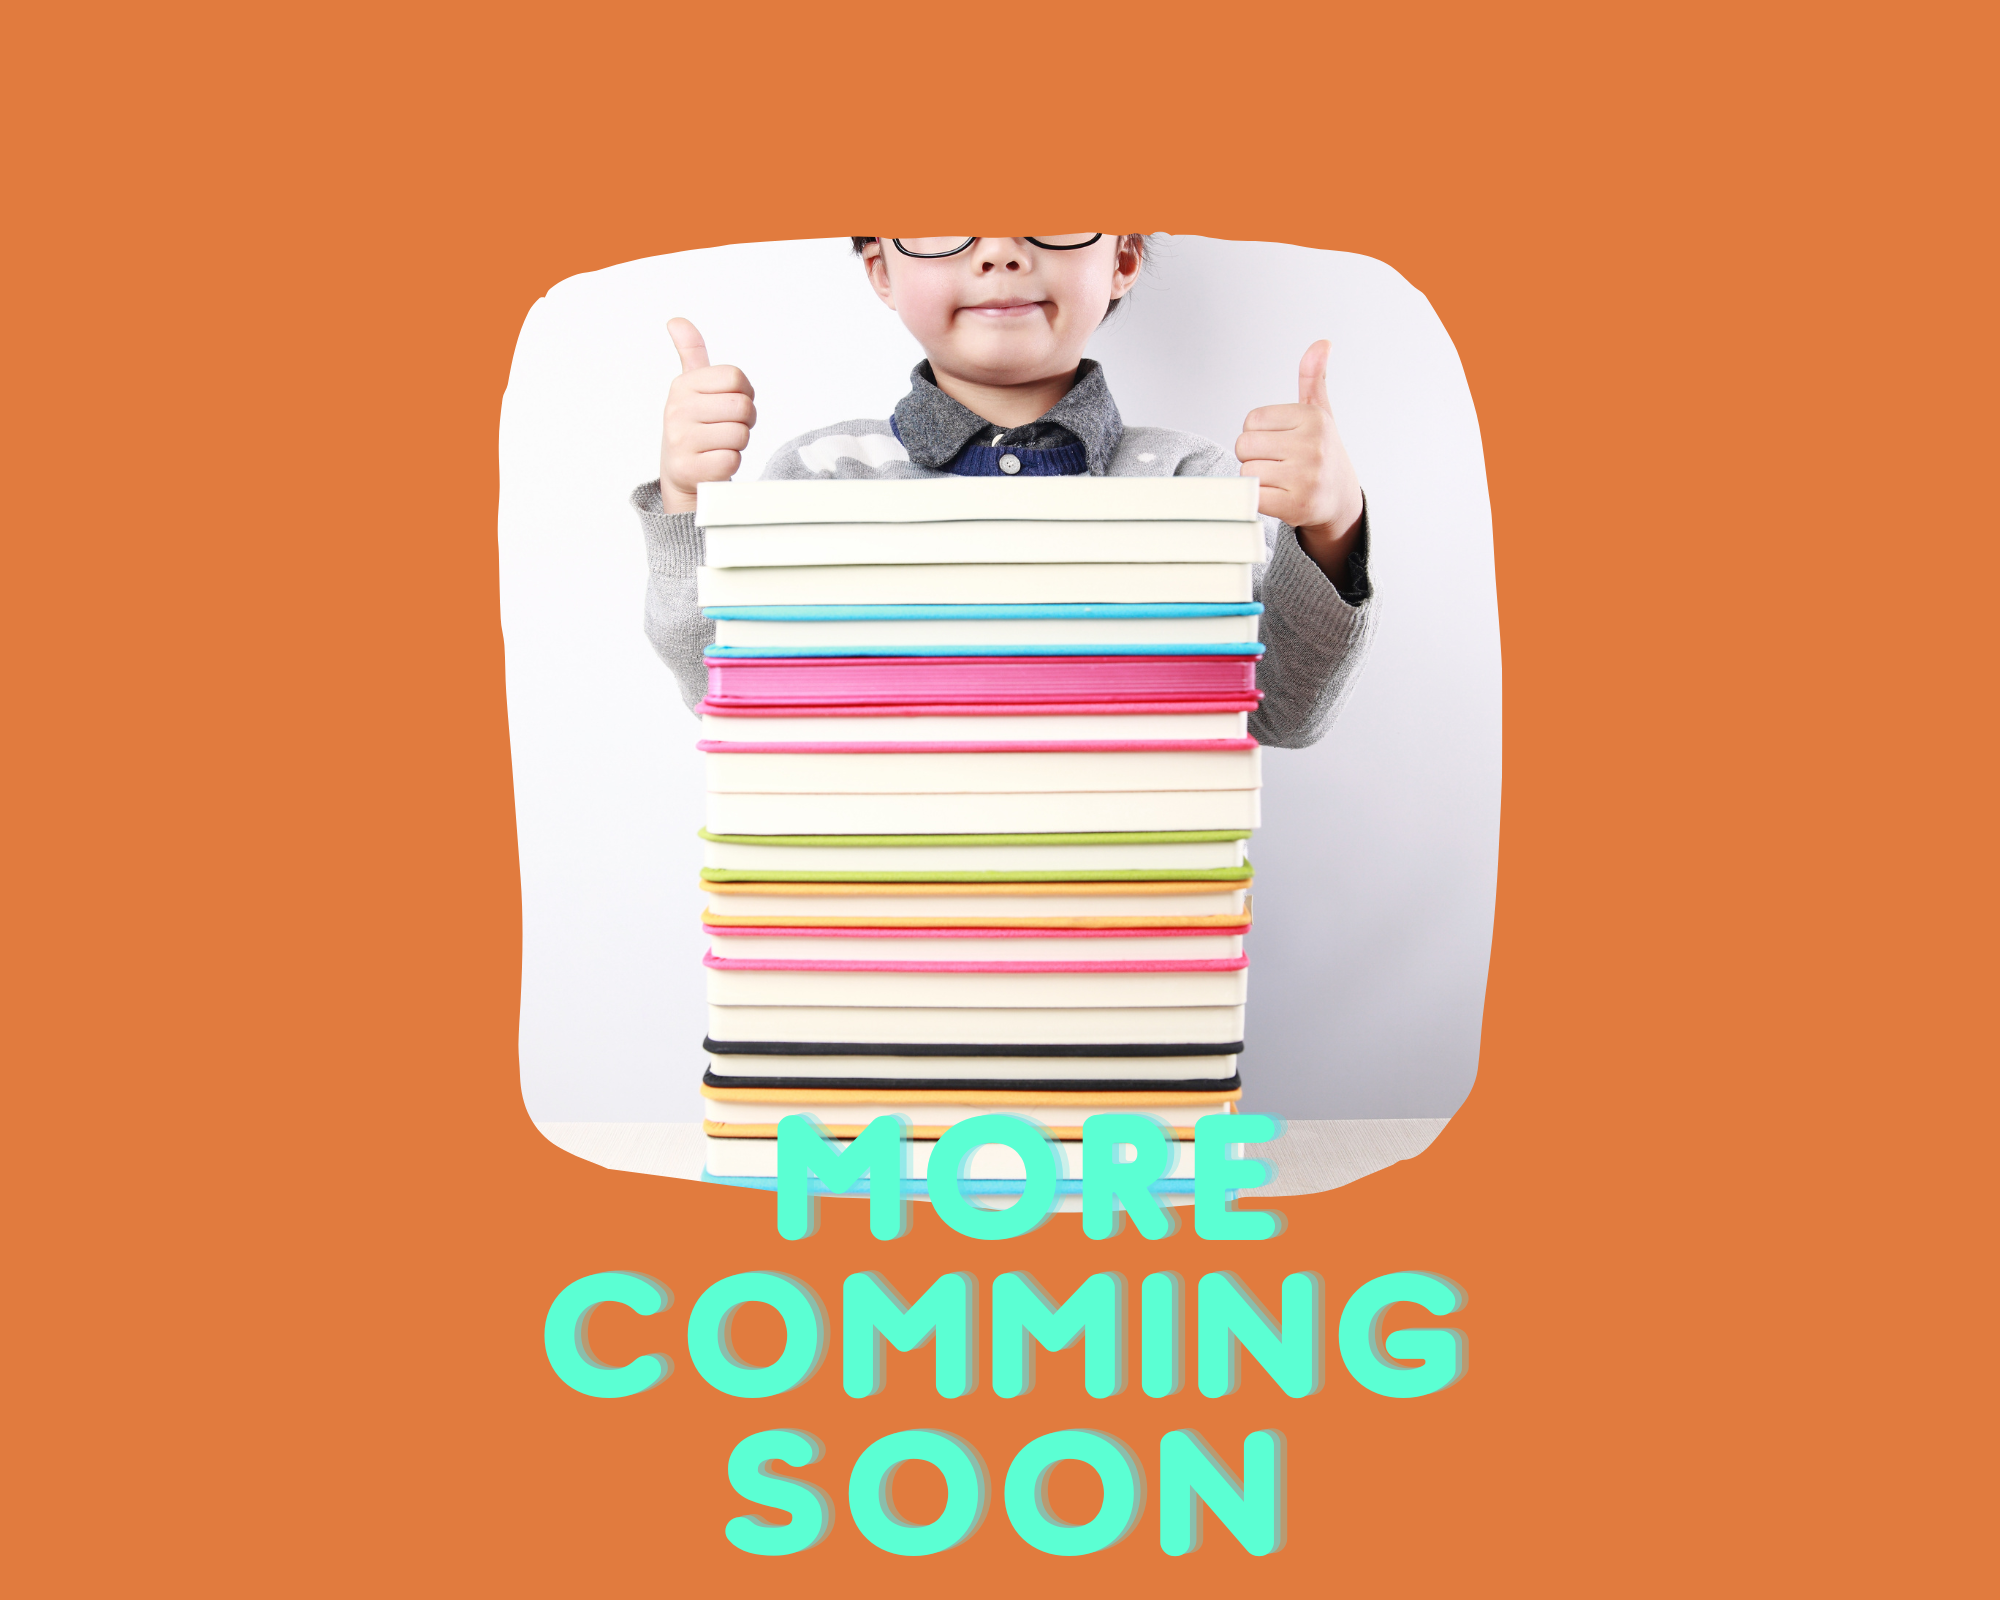
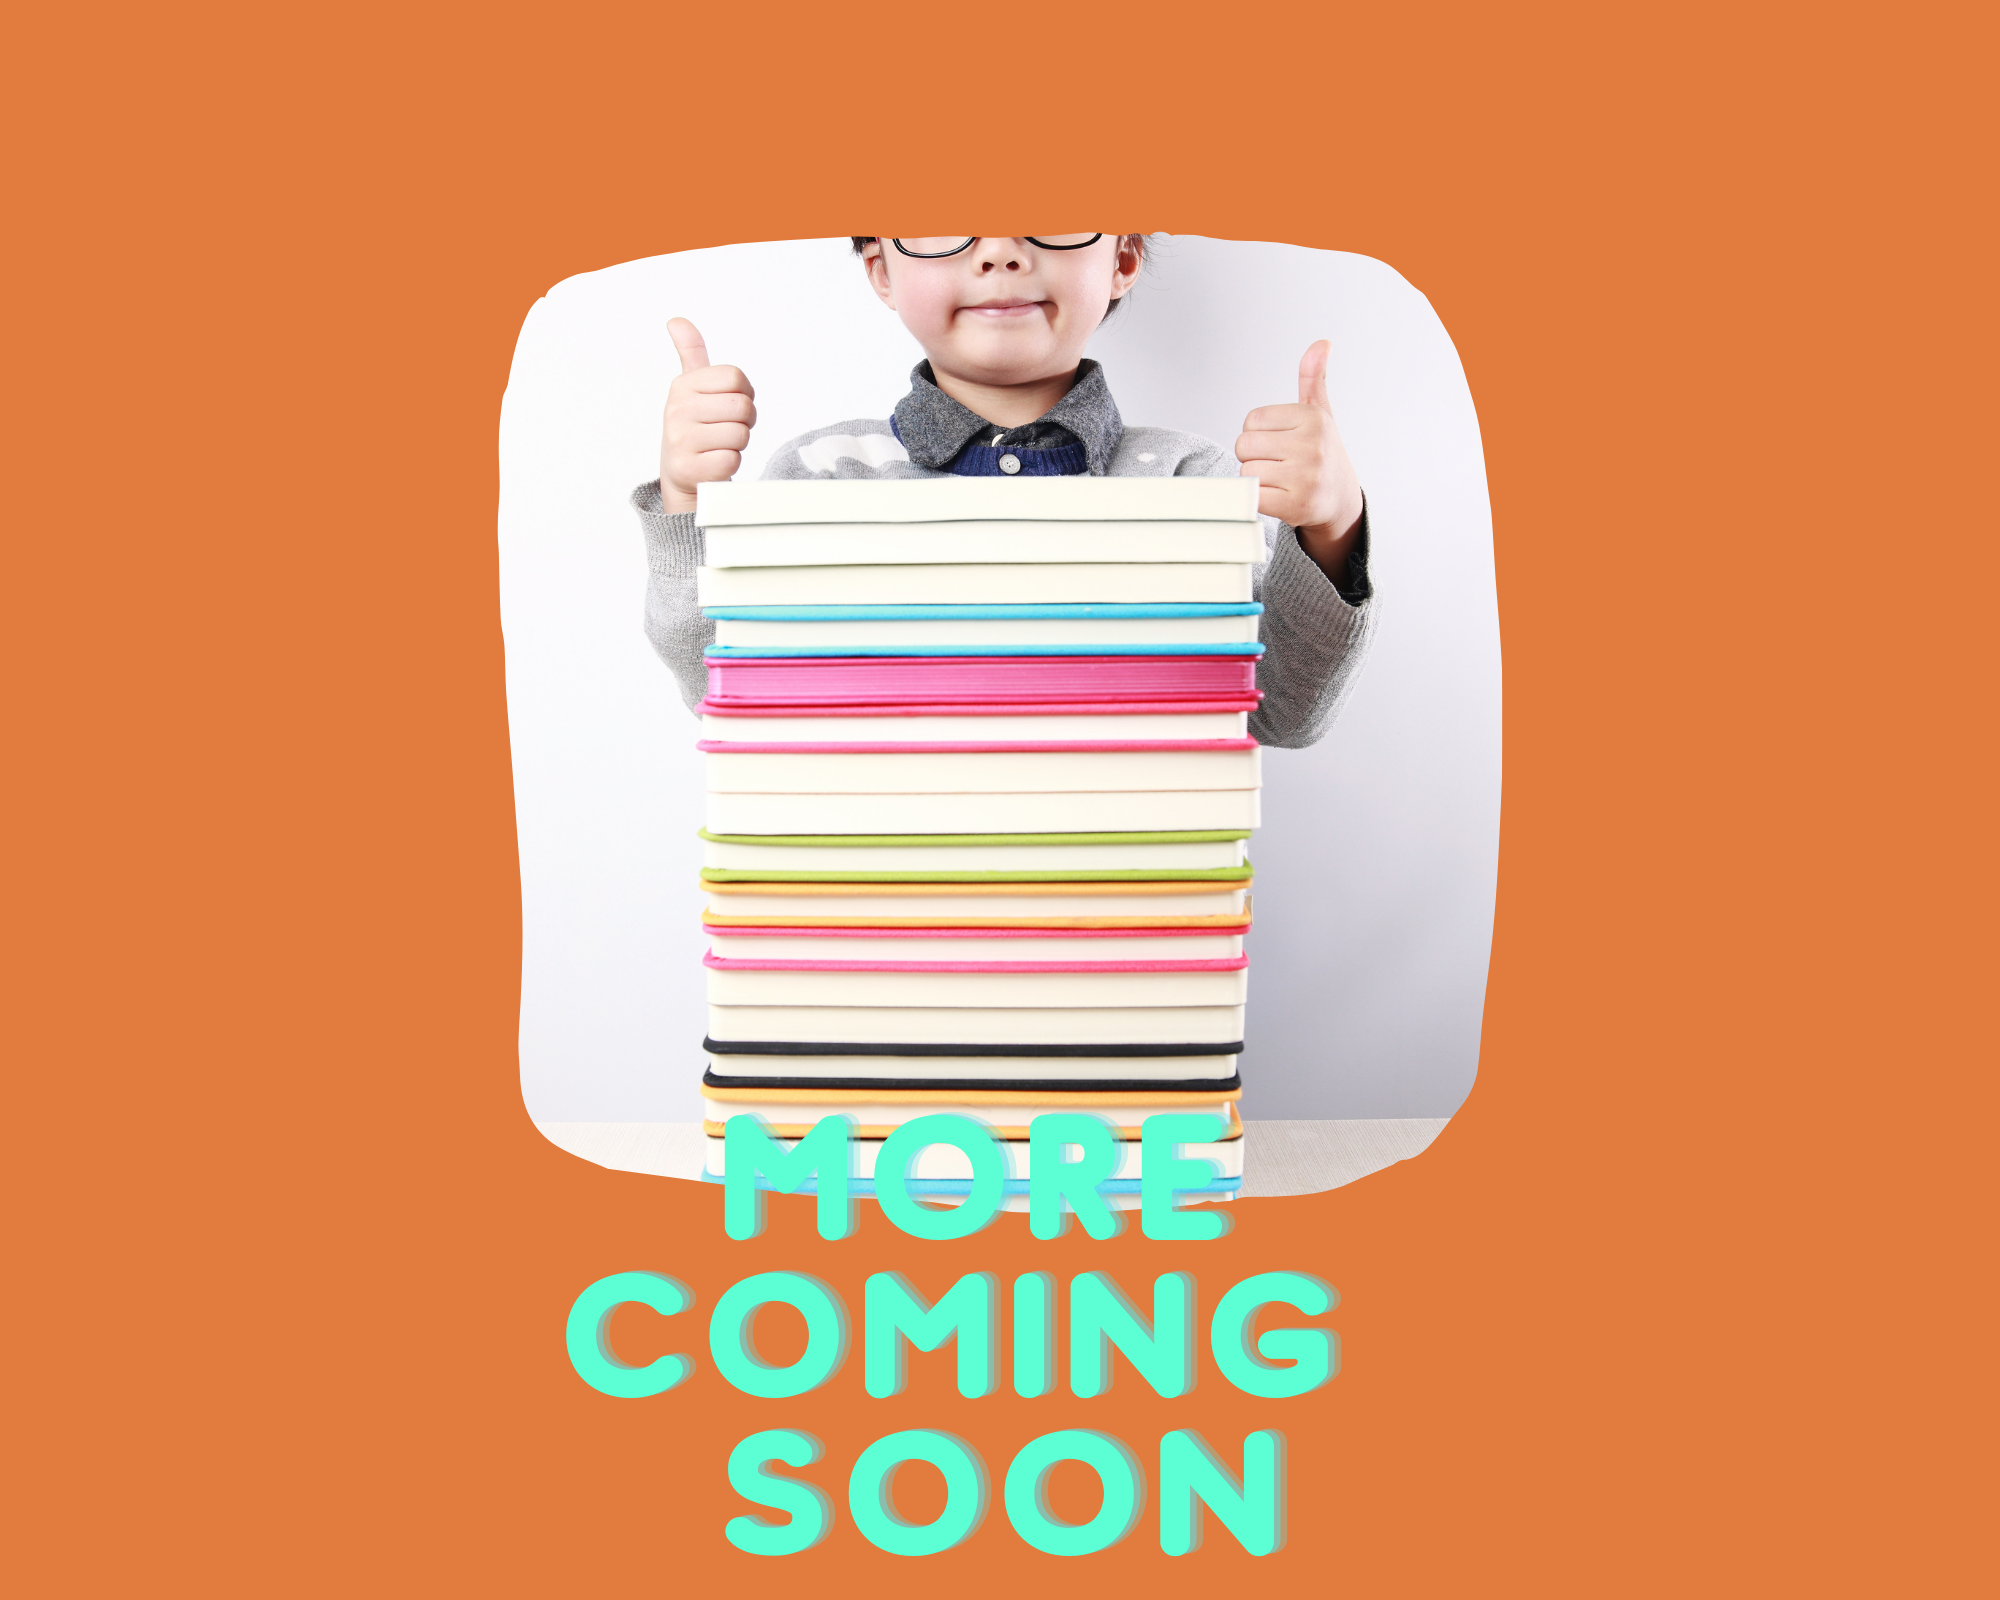
img and index modified

Changed region(s): [[0.248, 0.6875, 0.744, 0.875]]

diff --git a/templates/index.html b/templates/index.html
@@ -134,8 +134,8 @@
                 </div>
                 <!-- About Section Content-->
                 <div class="row">
-                    <div class="col-lg-4 ms-auto"><p class="lead">I am a dreamer who believes in the power of creativity and innovation. I am always looking for ways to take my ideas to the next level and to support others to do the same. </p></div>
-                    <div class="col-lg-4 me-auto"><p class="lead">Technology is one of the ways I am most passionate about creating and developing projects.</p></div>
+                    <div class="col-lg-4 ms-auto"><p class="lead">I am a dreamer who believes in the power of creativity and innovation. I am always looking for ways to take my ideas into the next level and to support others to do the same. </p></div>
+                    <div class="col-lg-4 me-auto"><p class="lead">Technology is the way in which I am most passionate about creating and developing projects.</p></div>
                 </div>
                 <!-- About Section Button-->
                 <div class="text-center mt-4">
@@ -242,7 +242,7 @@
                     <div class="col-lg-4">
                         <h4 class="text-uppercase mb-4">About this</h4>
                         <p class="lead mb-0">
-                            I hope you enjoy this first version of the portfolio.
+                            I hope you enjoy the first version of the portfolio.
                         </p>
                     </div>
                 </div>
@@ -423,7 +423,7 @@
                             <div class="row justify-content-center">
                                 <div class="col-lg-8">
                                     <!-- Portfolio Modal - Title-->
-                                    <h2 class="portfolio-modal-title text-secondary text-uppercase mb-0">Comming soon</h2>
+                                    <h2 class="portfolio-modal-title text-secondary text-uppercase mb-0">Coming soon</h2>
                                     <!-- Icon Divider-->
                                     <div class="divider-custom">
                                         <div class="divider-custom-line"></div>
